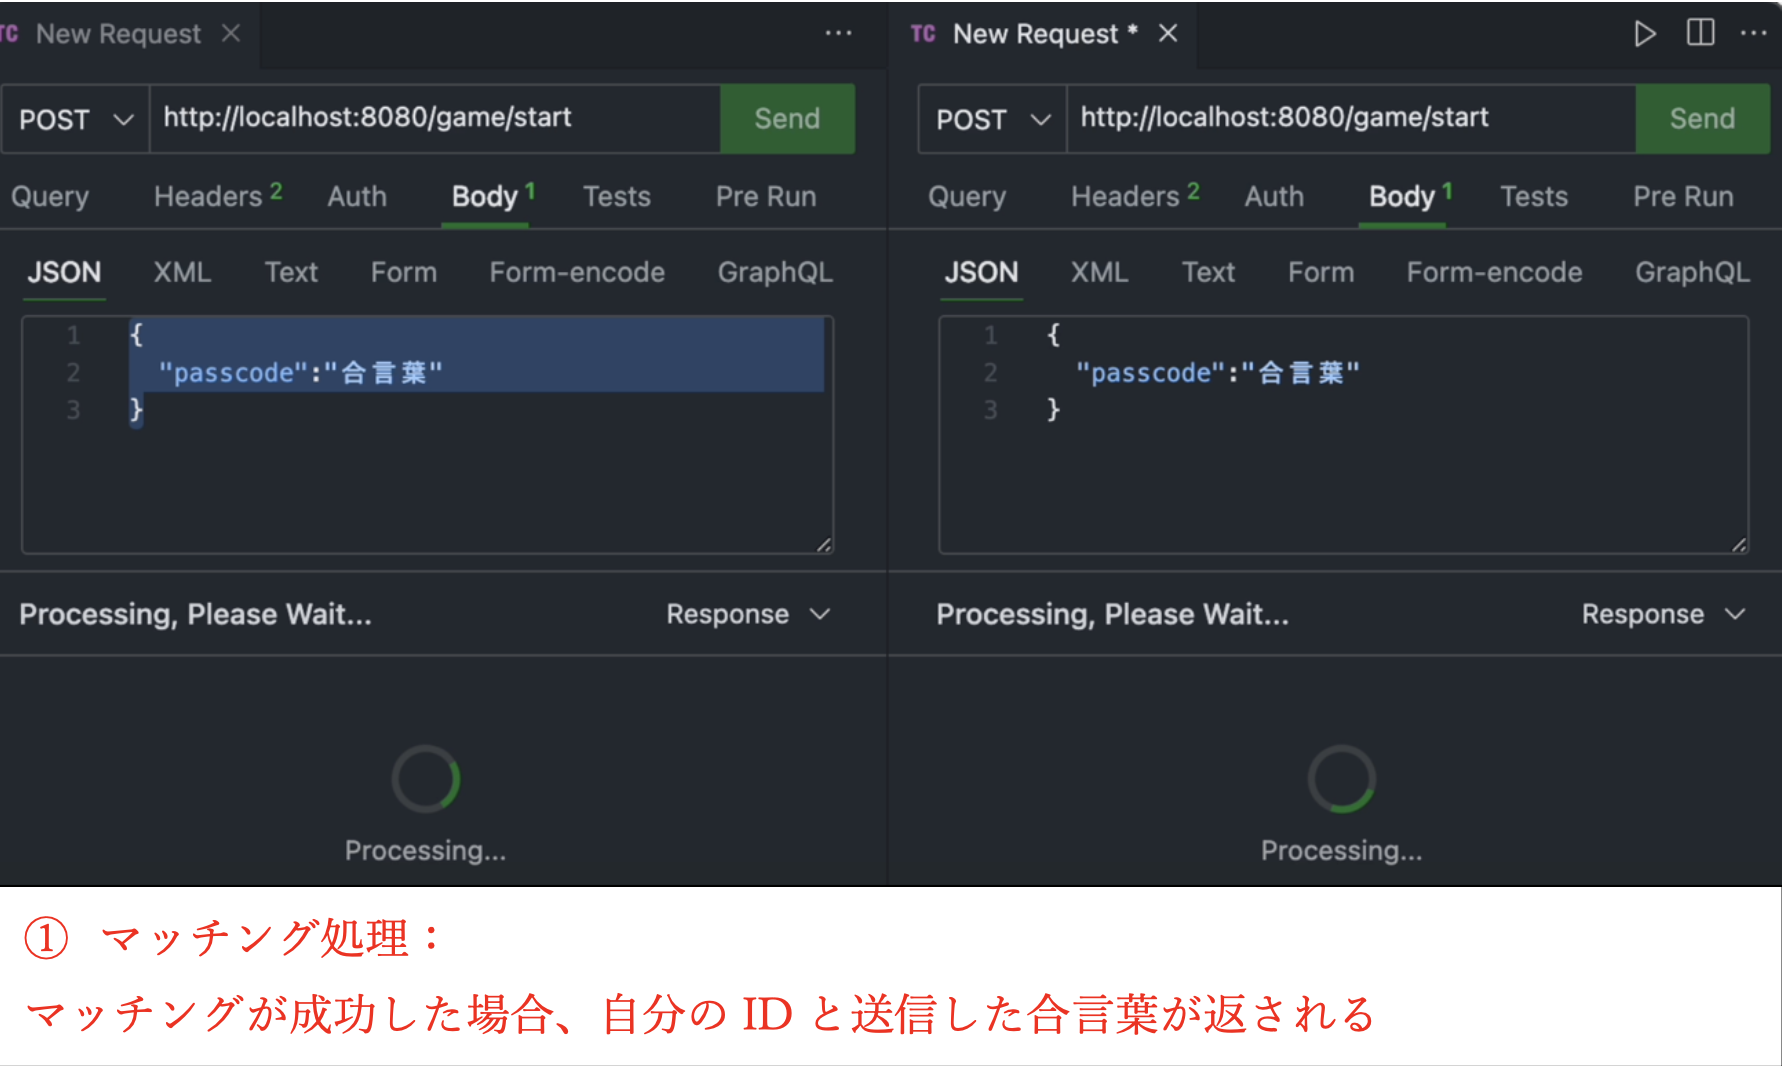
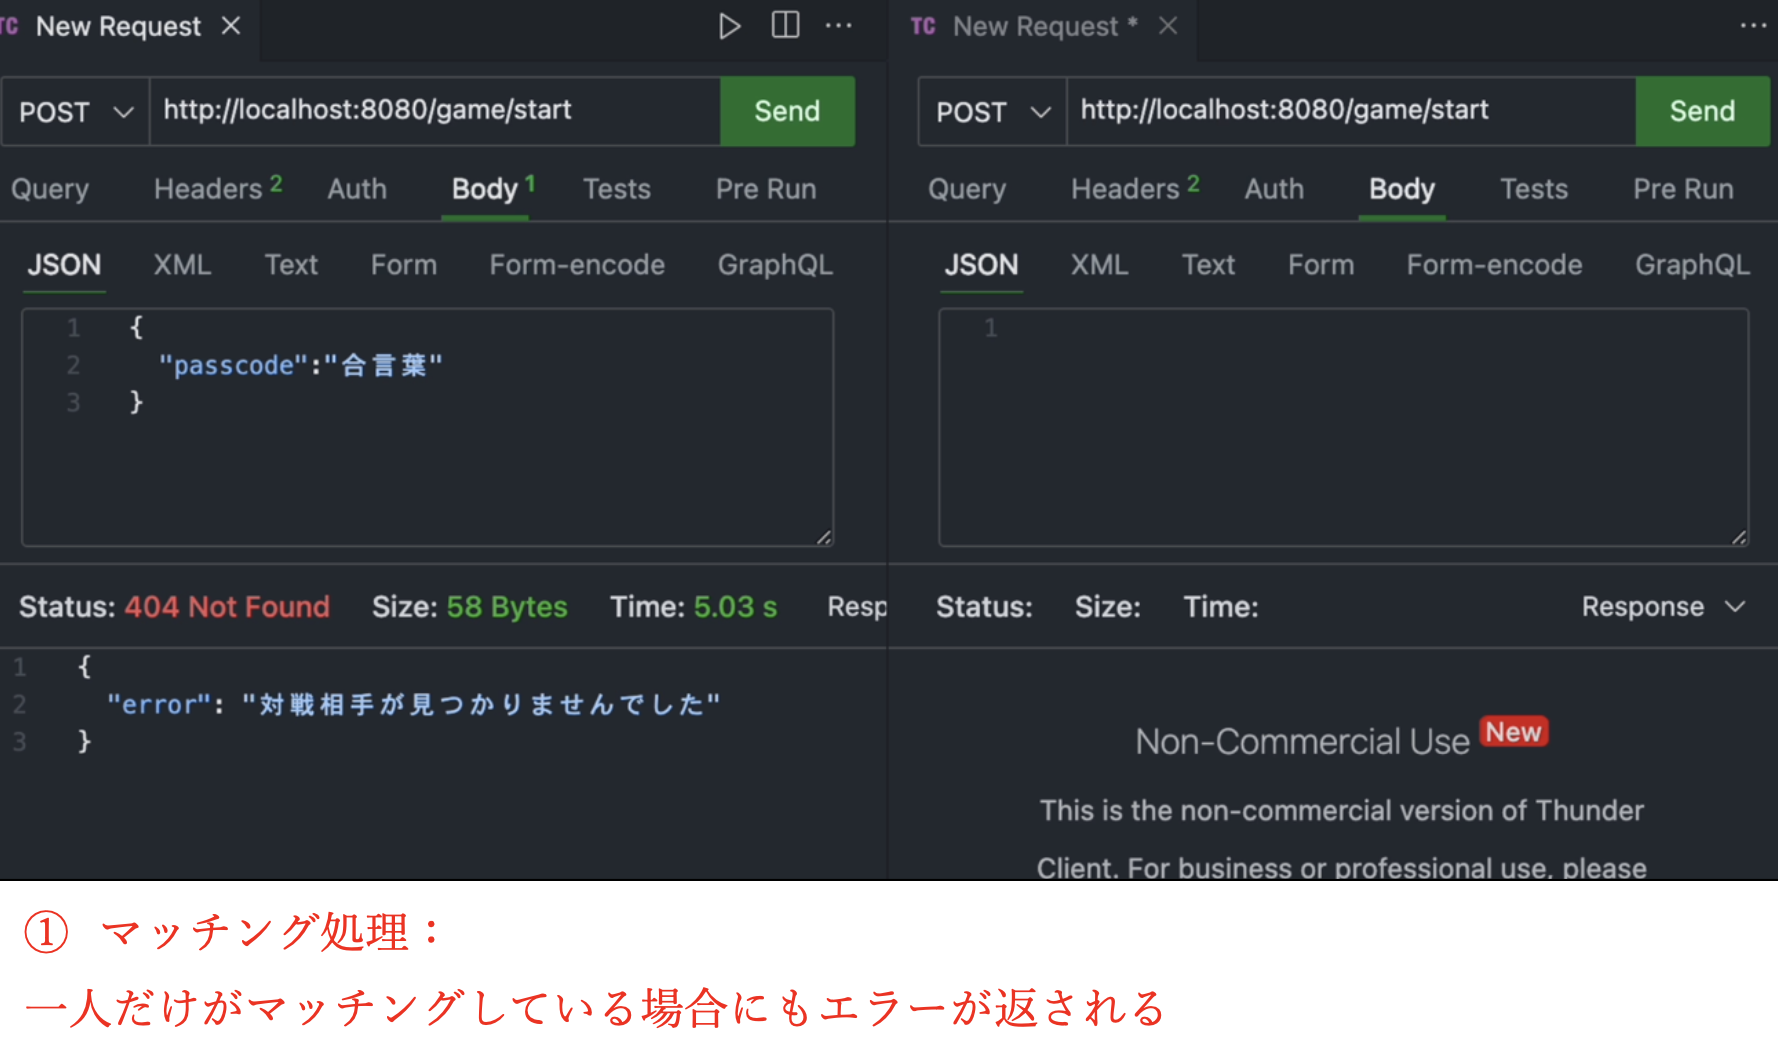
README.mdにマッチング処理-5の画像を追加し、プレイヤーハンドラーでのエラーレスポンスを204 No Contentに変更

diff --git a/backend/internal/app/handler/player_handler.go b/backend/internal/app/handler/player_handler.go
@@ -105,7 +105,7 @@ func (ph *playerHandler) FetchOpponentTopic(c echo.Context) error {
 
 	opponentPlayer, err := ph.ps.FindAvailableOpponentByPasscode(c.Request().Context(), uint(id), decodedPasscode)
 	if opponentPlayer == nil || err != nil {
-		return c.JSON(http.StatusOK, err)
+		return c.JSON(http.StatusNoContent, err)
 	}
 
 	topicResp := dto.TopicResp{

diff --git a/README.md b/README.md
@@ -61,6 +61,9 @@
 ### ①　マッチング処理-4
 ![](./api_images/1_4.png)
 ---
+### ①　マッチング処理-5
+![](./api_images/1_5.png)
+---
 ### ② お題を送信する処理
 ![](./api_images/2.png)
 ---
